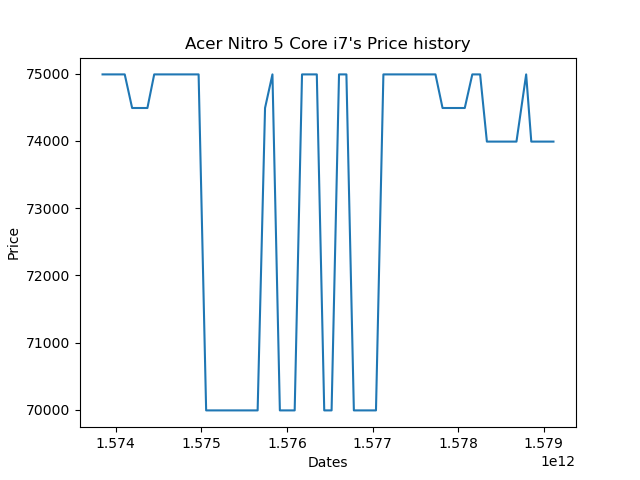
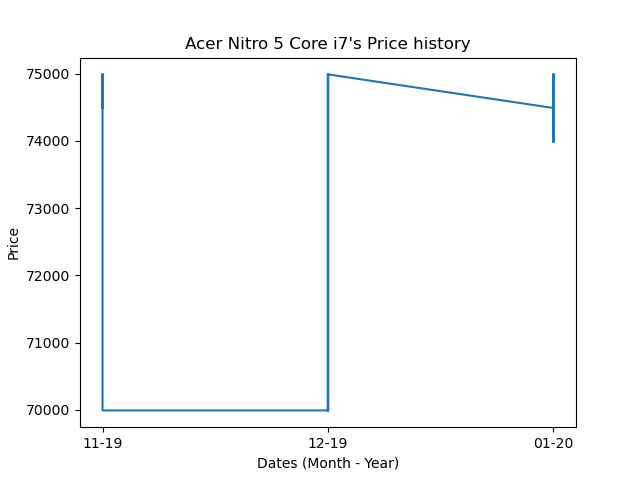
styles added with date modified M-Y

diff --git a/templates/base.html b/templates/base.html
@@ -17,14 +17,14 @@
 </head>
 <body>
 <nav class="navbar navbar-expand-lg navbar-light bg-light">
-  <a class="navbar-brand" href="#">Navbar</a>
+  <a class="navbar-brand" href="#">Scrapper</a>
   <button class="navbar-toggler" type="button" data-toggle="collapse" data-target="#navbarNav" aria-controls="navbarNav" aria-expanded="false" aria-label="Toggle navigation">
     <span class="navbar-toggler-icon"></span>
   </button>
   <div class="collapse navbar-collapse" id="navbarNav">
     <ul class="navbar-nav">
       <li class="nav-item active">
-        <a class="nav-link" href="#">Home <span class="sr-only">(current)</span></a>
+        <a class="nav-link" href="index.html">Home <span class="sr-only">(current)</span></a>
       </li>
       <li class="nav-item">
         <a class="nav-link" href="#">Features</a>

diff --git a/templates/index.html b/templates/index.html
@@ -9,17 +9,23 @@
 <head>
     <meta charset="UTF-8">
     <title>Flask web page </title>
+        <link rel="stylesheet" href="{{ url_for('static',filename='css/styles.css')}}">
 </head>
 <body>
-   <h1> URL Shortener </h1>
+    <center>
+       <h1 style="margin : 50px 0px 30px 0px; font-family : Raleway;"> Welcome! </h1>
+    </center>
 
 <form action="your_url" method="post">
 
-    <label>Name of the product</label>
-    <input type="text" name="code" value="" required>
-    <br>
-    <input type="submit" value="Shorten">
+    <div style="margin : 80px 0px 60px 0px; text-align : center;">
+    <label>Name of the product : &nbsp;</label>
+    <input type="text" name="code" value="" required> &nbsp;&nbsp;
+        <input type="submit" value="Scrap it!">
+
+    </div>
 </form>
+
 
 </body>
 </html>

diff --git a/templates/your_url.html b/templates/your_url.html
@@ -15,8 +15,8 @@
 <!--    <p> Python's flask look this path for the image {{graph}}</p>-->
 <div>
     <center>
-        <img class="image" src="{{ url_for('static',filename=graph)}}" alt="chart" style="border-radius : 25px; padding: 20px; width : 50%; height : 30%; box-shadow: 0 10px 50px 0 rgba(0, 0, 0, 0.2), 0 6px 20px 0 rgba(0, 0, 0, 0.19);">
-</center>
+        <img class="image" src="{{ url_for('static',filename=graph)}}" alt="chart" style="border-radius : 25px; padding: 20px; width : 50%; height : 30%; box-shadow: 0 10px 50px 0 rgba(0, 0, 0, 0.2), 0 6px 20px 0 rgba(0, 0, 0, 0.19); margin : 80px 0px 60px 0px;">
+    </center>
 </div>
 <!--    <img src="{{ url_for('static',filename=graph)}}" alt="chart">-->
 <!--<img src="{{ url_for('static',filename=graph)}}" alt="chart">-->

diff --git a/static/css/styles.css b/static/css/styles.css
@@ -4,3 +4,8 @@
     width : 45%;
     box-shadow: 0 10px 50px 0 rgba(0, 0, 0, 0.2), 0 6px 20px 0 rgba(0, 0, 0, 0.19);
 }
+
+.form{
+    margin : 80px 0px 60px 0px;
+    text-align : center;
+}

diff --git a/notification.py b/notification.py
@@ -53,14 +53,14 @@ def send_mail():
     server.ehlo()
     server.starttls()
     server.ehlo()
-    server.login('170390107045@saffrony.ac.in', 'Ahirjsca2')
+    server.login('170390107029@saffrony.ac.in', 'paurav3838')
     subject = "Price of Phillips Trimmer has fallen down below Rs. " + str(dp)
     body = "Hey ! \n  has fallen down below Rs." + str(
         dp) + ".\n So, hurry up & check the amazon link right now : " + url
     msg = f"Subject: {subject} \n\n {body} "
     server.sendmail(
-        '170390107045@saffrony.ac.in',
-        '170390107047@saffrony.ac.in',
+        '170390107029@saffrony.ac.in',
+        'pspofficial2912@gmail.com',
         msg
     )
     print("Email Mokli Ditho")
@@ -71,8 +71,8 @@ def send_mail():
 def push_notification():
     notify = Notify()
     notify.send(pnmsg)
-    print("HEY Hiren, NOTIFICATION Mokli")
-    print("Minute pachi pachi check karse price")
+    print("HEY PSP, NOTIFICATION Mokli")
+    print("Minute pachi check karse price")
 
 
 count = 0
@@ -81,3 +81,5 @@ while True:
     print("Count : " + str(count))
     check_price()
     time.sleep(60)
+# TODO
+#  Add Email me button and run email python script when button is clicked, check if email is received or not.

diff --git a/priceHistoryUtils.py b/priceHistoryUtils.py
@@ -121,7 +121,7 @@ def plotter(product_name):
 
         # #print(lableListX)
         #
-        plt.xlabel("Dates")
+        plt.xlabel("Dates (Month - Year)")
         plt.ylabel("Price")
         #
         # listPriceY.pop()
@@ -159,3 +159,5 @@ def plotter(product_name):
         img_path = str(product_name) + ".png"
         # img_path = "images/" + str(product_name) + ".png"
         return img_path
+#TODO
+# >> Fetch the dates list and prices list and convert it to live graph in web style.

diff --git a/first.py b/first.py
@@ -26,3 +26,5 @@ def your_url():
 
 if __name__ == "__main__":
     app.run(debug=True)
+# TODO
+#  Refactor and apply style to whole project and fullfill the requirement as shown in navbar with logo and all that.

diff --git a/main.py b/main.py
@@ -2,3 +2,6 @@ import priceHistoryUtils
 
 productName = str(input())
 priceHistoryUtils.plotter(productName)
+
+# TODO
+#  See the git repo of hiren which has sms feature and integrate it too in page.
